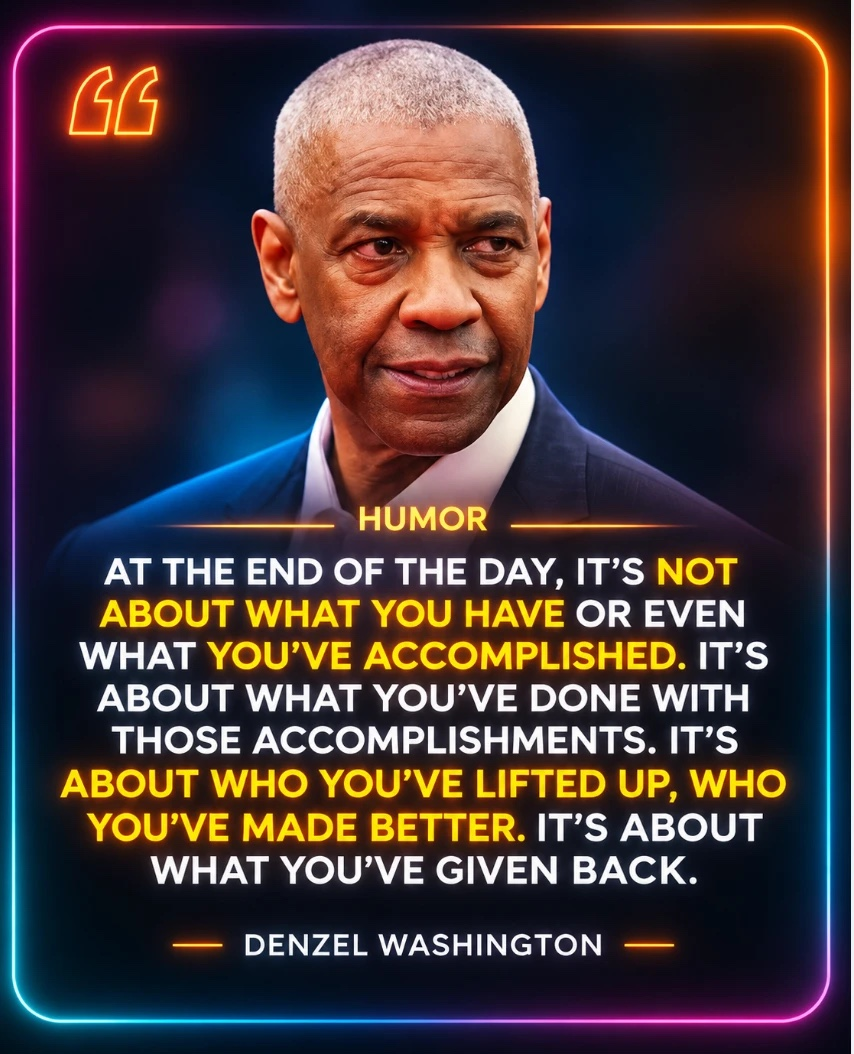
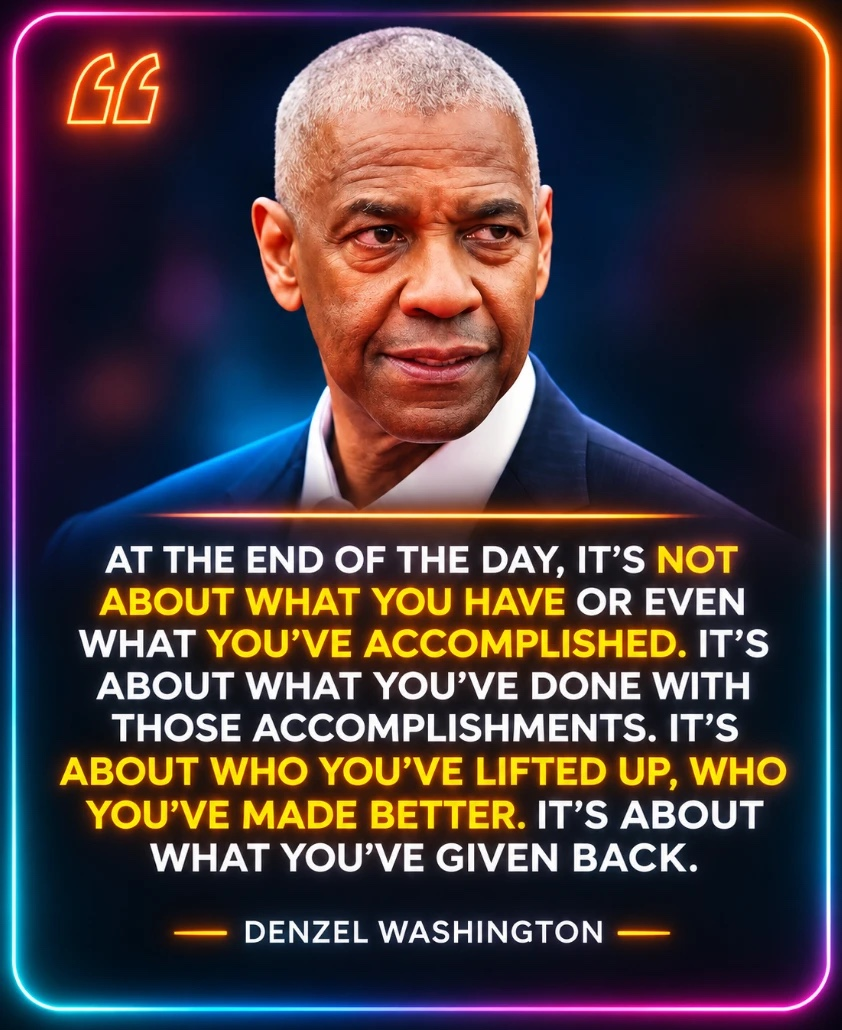
Swap in the quote card without the Humor label

diff --git a/blog/take-it-all-away-then.html b/blog/take-it-all-away-then.html
@@ -429,7 +429,7 @@
 
             <p>So here's the question I want to ask in the next seminar chat. <strong>Take it all away then.</strong> Your title, your inbox, your tasks. If AI took your job tomorrow, who would still be standing there?</p>
 
-            <img src="../take-it-all-away.jpg" alt="Quote card with a photo of Denzel Washington and his words: At the end of the day, it&#x27;s not about what you have or even what you&#x27;ve accomplished. It&#x27;s about who you&#x27;ve lifted up, who you&#x27;ve made better. It&#x27;s about what you&#x27;ve given back." class="article-image photo portrait" width="854" height="1054">
+            <img src="../take-it-all-away.jpg" alt="Quote card with a photo of Denzel Washington and his words: At the end of the day, it&#x27;s not about what you have or even what you&#x27;ve accomplished. It&#x27;s about who you&#x27;ve lifted up, who you&#x27;ve made better. It&#x27;s about what you&#x27;ve given back." class="article-image photo portrait" width="842" height="1030">
 
             <p>My mother raised me on a line I carry everywhere: <em>"El que no vive para servir, no sirve para vivir."</em> Whoever doesn't live to serve isn't fit to live. Service is the meaning that never automates. Your love for your people, your curiosity, your faith, saying yes to inconveniencing oneself, the way you show up for a neighbor. No model can take that, and it pays dividends.</p>
 

diff --git a/es/blog/take-it-all-away-then.html b/es/blog/take-it-all-away-then.html
@@ -429,7 +429,7 @@
 
             <p>Así que esta es la pregunta que quiero hacer en el chat del próximo seminario. <strong>Entonces, quítamelo todo.</strong> Tu puesto, tu bandeja de entrada, tus pendientes. Si la IA te quitara tu trabajo mañana, ¿quién seguiría ahí de pie?</p>
 
-            <img src="../../take-it-all-away.jpg" alt="Tarjeta con una foto de Denzel Washington y sus palabras: Al final del día, no se trata de lo que tienes ni de lo que has logrado. Se trata de a quién has levantado, a quién has hecho mejor. Se trata de lo que has devuelto." class="article-image photo portrait" width="854" height="1054">
+            <img src="../../take-it-all-away.jpg" alt="Tarjeta con una foto de Denzel Washington y sus palabras: Al final del día, no se trata de lo que tienes ni de lo que has logrado. Se trata de a quién has levantado, a quién has hecho mejor. Se trata de lo que has devuelto." class="article-image photo portrait" width="842" height="1030">
 
             <p>Mi mamá me crió con una frase que llevo a todas partes: <em>"El que no vive para servir, no sirve para vivir."</em> El servicio es el sentido que nunca se automatiza. Tu amor por tu gente, tu curiosidad, tu fe, decir que sí a incomodarte por otros, la manera en que estás ahí para un vecino. Ningún modelo puede quitarte eso, y da frutos.</p>
 

diff --git a/blog/index.html b/blog/index.html
@@ -571,7 +571,7 @@
         <!-- Post 1 - Featured -->
         <a href="take-it-all-away-then.html" class="blog-card featured has-image">
             <div class="card-accent accent-terracotta"></div>
-            <img src="../take-it-all-away.jpg" alt="Quote card with a photo of Denzel Washington and his words: At the end of the day, it&#x27;s not about what you have or even what you&#x27;ve accomplished. It&#x27;s about who you&#x27;ve lifted up, who you&#x27;ve made better. It&#x27;s about what you&#x27;ve given back." class="card-image" width="854" height="1054" loading="lazy">
+            <img src="../take-it-all-away.jpg" alt="Quote card with a photo of Denzel Washington and his words: At the end of the day, it&#x27;s not about what you have or even what you&#x27;ve accomplished. It&#x27;s about who you&#x27;ve lifted up, who you&#x27;ve made better. It&#x27;s about what you&#x27;ve given back." class="card-image" width="842" height="1030" loading="lazy">
             <div class="card-body">
                 <div class="card-tags">
                     <span class="card-tag">Future of Work</span>

diff --git a/index.html b/index.html
@@ -252,7 +252,7 @@
     <div class="home-posts">
         <!-- home-posts -->
         <a href="blog/take-it-all-away-then.html" class="home-post featured has-image">
-          <img src="take-it-all-away.jpg" alt="Quote card with a photo of Denzel Washington and his words: At the end of the day, it&#x27;s not about what you have or even what you&#x27;ve accomplished. It&#x27;s about who you&#x27;ve lifted up, who you&#x27;ve made better. It&#x27;s about what you&#x27;ve given back." class="home-post-image" width="854" height="1054" loading="lazy">
+          <img src="take-it-all-away.jpg" alt="Quote card with a photo of Denzel Washington and his words: At the end of the day, it&#x27;s not about what you have or even what you&#x27;ve accomplished. It&#x27;s about who you&#x27;ve lifted up, who you&#x27;ve made better. It&#x27;s about what you&#x27;ve given back." class="home-post-image" width="842" height="1030" loading="lazy">
           <div class="home-post-body">
             <div class="blog-card-tags">
               <span class="blog-tag">Future of Work</span>

diff --git a/es/blog/index.html b/es/blog/index.html
@@ -571,7 +571,7 @@
         <!-- Post 1 - Featured -->
         <a href="take-it-all-away-then.html" class="blog-card featured has-image">
             <div class="card-accent accent-terracotta"></div>
-            <img src="../../take-it-all-away.jpg" alt="Tarjeta con una foto de Denzel Washington y sus palabras: Al final del día, no se trata de lo que tienes ni de lo que has logrado. Se trata de a quién has levantado, a quién has hecho mejor. Se trata de lo que has devuelto." class="card-image" width="854" height="1054" loading="lazy">
+            <img src="../../take-it-all-away.jpg" alt="Tarjeta con una foto de Denzel Washington y sus palabras: Al final del día, no se trata de lo que tienes ni de lo que has logrado. Se trata de a quién has levantado, a quién has hecho mejor. Se trata de lo que has devuelto." class="card-image" width="842" height="1030" loading="lazy">
             <div class="card-body">
                 <div class="card-tags">
                     <span class="card-tag">Futuro del Trabajo</span>

diff --git a/es/index.html b/es/index.html
@@ -251,7 +251,7 @@
     <div class="home-posts">
         <!-- home-posts -->
         <a href="blog/take-it-all-away-then.html" class="home-post featured has-image">
-          <img src="../take-it-all-away.jpg" alt="Tarjeta con una foto de Denzel Washington y sus palabras: Al final del día, no se trata de lo que tienes ni de lo que has logrado. Se trata de a quién has levantado, a quién has hecho mejor. Se trata de lo que has devuelto." class="home-post-image" width="854" height="1054" loading="lazy">
+          <img src="../take-it-all-away.jpg" alt="Tarjeta con una foto de Denzel Washington y sus palabras: Al final del día, no se trata de lo que tienes ni de lo que has logrado. Se trata de a quién has levantado, a quién has hecho mejor. Se trata de lo que has devuelto." class="home-post-image" width="842" height="1030" loading="lazy">
           <div class="home-post-body">
             <div class="blog-card-tags">
               <span class="blog-tag">Futuro del Trabajo</span>
